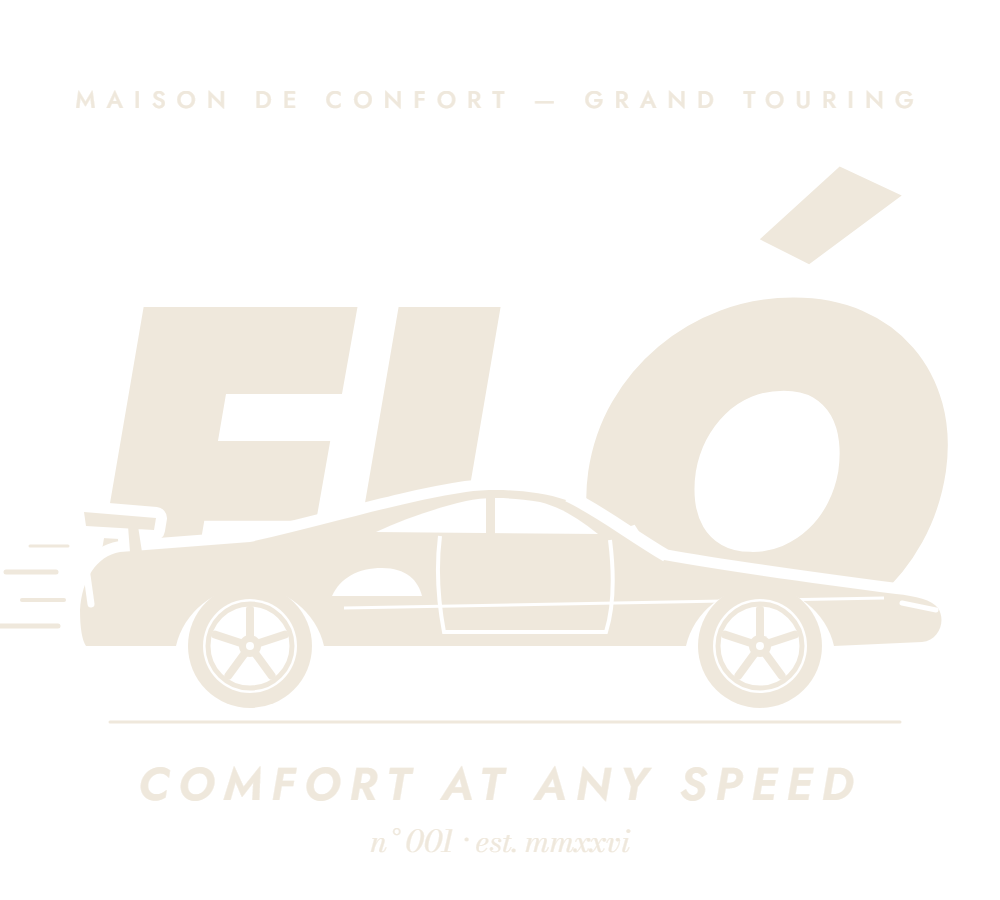
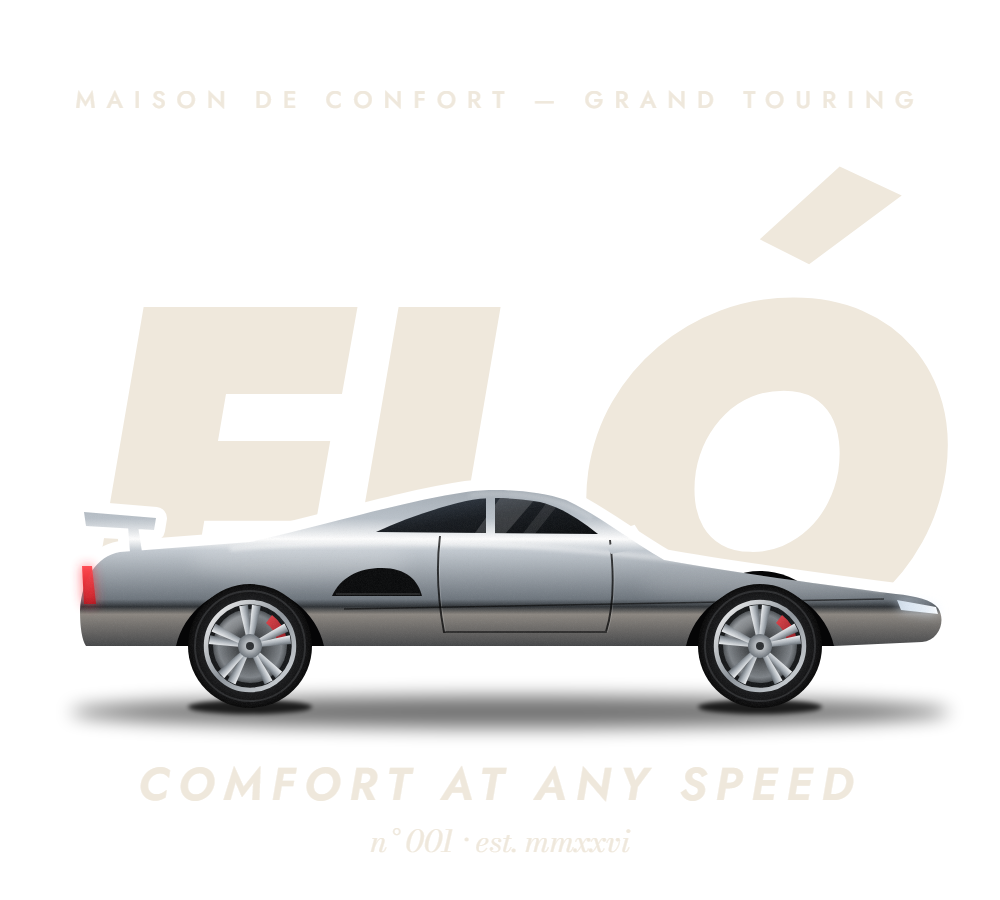
Photo-style car in crest and Grand Touring prints; lower back wordmark

Changed region(s): [[0.0, 0.5289, 0.961, 0.84]]

diff --git a/success.html b/success.html
@@ -11,7 +11,7 @@
 <link rel="icon" href="assets/img/favicon.svg" type="image/svg+xml">
 <link rel="preload" href="assets/fonts/bodoni-moda-latin-wght-normal.woff2" as="font" type="font/woff2" crossorigin>
 <link rel="preload" href="assets/fonts/jost-latin-wght-normal.woff2" as="font" type="font/woff2" crossorigin>
-<link rel="stylesheet" href="assets/css/style.css?v=5">
+<link rel="stylesheet" href="assets/css/style.css?v=6">
 </head>
 <body data-page="success">
 <div class="announce"><span class="label">Free shipping on orders over $150 &nbsp;·&nbsp; Every piece made to order</span></div>
@@ -92,8 +92,8 @@
   </div>
 </aside>
 <div class="toast label" id="toast" role="status" aria-live="polite"></div>
-<script src="assets/js/config.js?v=5"></script>
-<script src="assets/js/garments.js?v=5"></script>
-<script src="assets/js/app.js?v=5"></script>
+<script src="assets/js/config.js?v=6"></script>
+<script src="assets/js/garments.js?v=6"></script>
+<script src="assets/js/app.js?v=6"></script>
 </body>
 </html>

diff --git a/about.html b/about.html
@@ -11,7 +11,7 @@
 <link rel="icon" href="assets/img/favicon.svg" type="image/svg+xml">
 <link rel="preload" href="assets/fonts/bodoni-moda-latin-wght-normal.woff2" as="font" type="font/woff2" crossorigin>
 <link rel="preload" href="assets/fonts/jost-latin-wght-normal.woff2" as="font" type="font/woff2" crossorigin>
-<link rel="stylesheet" href="assets/css/style.css?v=5">
+<link rel="stylesheet" href="assets/css/style.css?v=6">
 </head>
 <body>
 <div class="announce"><span class="label">Free shipping on orders over $150 &nbsp;·&nbsp; Every piece made to order</span></div>
@@ -116,8 +116,8 @@
   </div>
 </aside>
 <div class="toast label" id="toast" role="status" aria-live="polite"></div>
-<script src="assets/js/config.js?v=5"></script>
-<script src="assets/js/garments.js?v=5"></script>
-<script src="assets/js/app.js?v=5"></script>
+<script src="assets/js/config.js?v=6"></script>
+<script src="assets/js/garments.js?v=6"></script>
+<script src="assets/js/app.js?v=6"></script>
 </body>
 </html>

diff --git a/index.html b/index.html
@@ -11,7 +11,7 @@
 <link rel="icon" href="assets/img/favicon.svg" type="image/svg+xml">
 <link rel="preload" href="assets/fonts/bodoni-moda-latin-wght-normal.woff2" as="font" type="font/woff2" crossorigin>
 <link rel="preload" href="assets/fonts/jost-latin-wght-normal.woff2" as="font" type="font/woff2" crossorigin>
-<link rel="stylesheet" href="assets/css/style.css?v=5">
+<link rel="stylesheet" href="assets/css/style.css?v=6">
 </head>
 <body>
 <div class="announce"><span class="label">Free shipping on orders over $150 &nbsp;·&nbsp; Every piece made to order</span></div>
@@ -164,8 +164,8 @@
   </div>
 </aside>
 <div class="toast label" id="toast" role="status" aria-live="polite"></div>
-<script src="assets/js/config.js?v=5"></script>
-<script src="assets/js/garments.js?v=5"></script>
-<script src="assets/js/app.js?v=5"></script>
+<script src="assets/js/config.js?v=6"></script>
+<script src="assets/js/garments.js?v=6"></script>
+<script src="assets/js/app.js?v=6"></script>
 </body>
 </html>

diff --git a/product.html b/product.html
@@ -11,7 +11,7 @@
 <link rel="icon" href="assets/img/favicon.svg" type="image/svg+xml">
 <link rel="preload" href="assets/fonts/bodoni-moda-latin-wght-normal.woff2" as="font" type="font/woff2" crossorigin>
 <link rel="preload" href="assets/fonts/jost-latin-wght-normal.woff2" as="font" type="font/woff2" crossorigin>
-<link rel="stylesheet" href="assets/css/style.css?v=5">
+<link rel="stylesheet" href="assets/css/style.css?v=6">
 </head>
 <body>
 <div class="announce"><span class="label">Free shipping on orders over $150 &nbsp;·&nbsp; Every piece made to order</span></div>
@@ -115,8 +115,8 @@
   </div>
 </aside>
 <div class="toast label" id="toast" role="status" aria-live="polite"></div>
-<script src="assets/js/config.js?v=5"></script>
-<script src="assets/js/garments.js?v=5"></script>
-<script src="assets/js/app.js?v=5"></script>
+<script src="assets/js/config.js?v=6"></script>
+<script src="assets/js/garments.js?v=6"></script>
+<script src="assets/js/app.js?v=6"></script>
 </body>
 </html>

diff --git a/shop.html b/shop.html
@@ -11,7 +11,7 @@
 <link rel="icon" href="assets/img/favicon.svg" type="image/svg+xml">
 <link rel="preload" href="assets/fonts/bodoni-moda-latin-wght-normal.woff2" as="font" type="font/woff2" crossorigin>
 <link rel="preload" href="assets/fonts/jost-latin-wght-normal.woff2" as="font" type="font/woff2" crossorigin>
-<link rel="stylesheet" href="assets/css/style.css?v=5">
+<link rel="stylesheet" href="assets/css/style.css?v=6">
 </head>
 <body>
 <div class="announce"><span class="label">Free shipping on orders over $150 &nbsp;·&nbsp; Every piece made to order</span></div>
@@ -111,8 +111,8 @@
   </div>
 </aside>
 <div class="toast label" id="toast" role="status" aria-live="polite"></div>
-<script src="assets/js/config.js?v=5"></script>
-<script src="assets/js/garments.js?v=5"></script>
-<script src="assets/js/app.js?v=5"></script>
+<script src="assets/js/config.js?v=6"></script>
+<script src="assets/js/garments.js?v=6"></script>
+<script src="assets/js/app.js?v=6"></script>
 </body>
 </html>

diff --git a/404.html b/404.html
@@ -11,7 +11,7 @@
 <link rel="icon" href="assets/img/favicon.svg" type="image/svg+xml">
 <link rel="preload" href="assets/fonts/bodoni-moda-latin-wght-normal.woff2" as="font" type="font/woff2" crossorigin>
 <link rel="preload" href="assets/fonts/jost-latin-wght-normal.woff2" as="font" type="font/woff2" crossorigin>
-<link rel="stylesheet" href="assets/css/style.css?v=5">
+<link rel="stylesheet" href="assets/css/style.css?v=6">
 </head>
 <body>
 <div class="announce"><span class="label">Free shipping on orders over $150 &nbsp;·&nbsp; Every piece made to order</span></div>
@@ -91,8 +91,8 @@
   </div>
 </aside>
 <div class="toast label" id="toast" role="status" aria-live="polite"></div>
-<script src="assets/js/config.js?v=5"></script>
-<script src="assets/js/garments.js?v=5"></script>
-<script src="assets/js/app.js?v=5"></script>
+<script src="assets/js/config.js?v=6"></script>
+<script src="assets/js/garments.js?v=6"></script>
+<script src="assets/js/app.js?v=6"></script>
 </body>
 </html>

diff --git a/assets/js/garments.js b/assets/js/garments.js
@@ -131,7 +131,7 @@
     if (kind === "classic") {
       // the FLÓ wordmark in Marcellus: upper back on tops, thigh on bottoms, front of the cap
       const classic = "font-family:Marcellus,'Bodoni Moda',serif";
-      const spot = back && s.back ? [s.back[0], s.back[1] - 66, 62, 7]
+      const spot = back && s.back ? [s.back[0], s.back[1] - 22, 62, 7]
         : s.thigh ? [s.thigh[0], s.thigh[1], 24, 3]
         : s.center ? [s.center[0], s.center[1], 46, 5] : null;
       if (!spot) return "";
